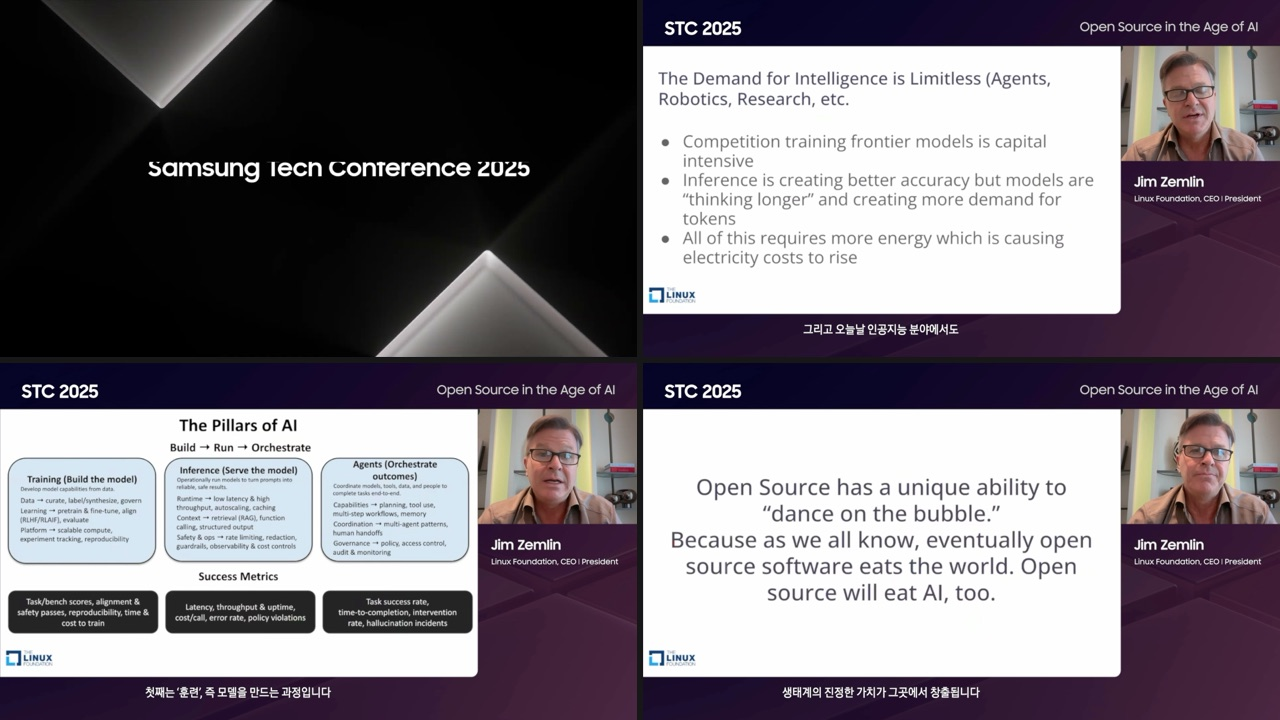
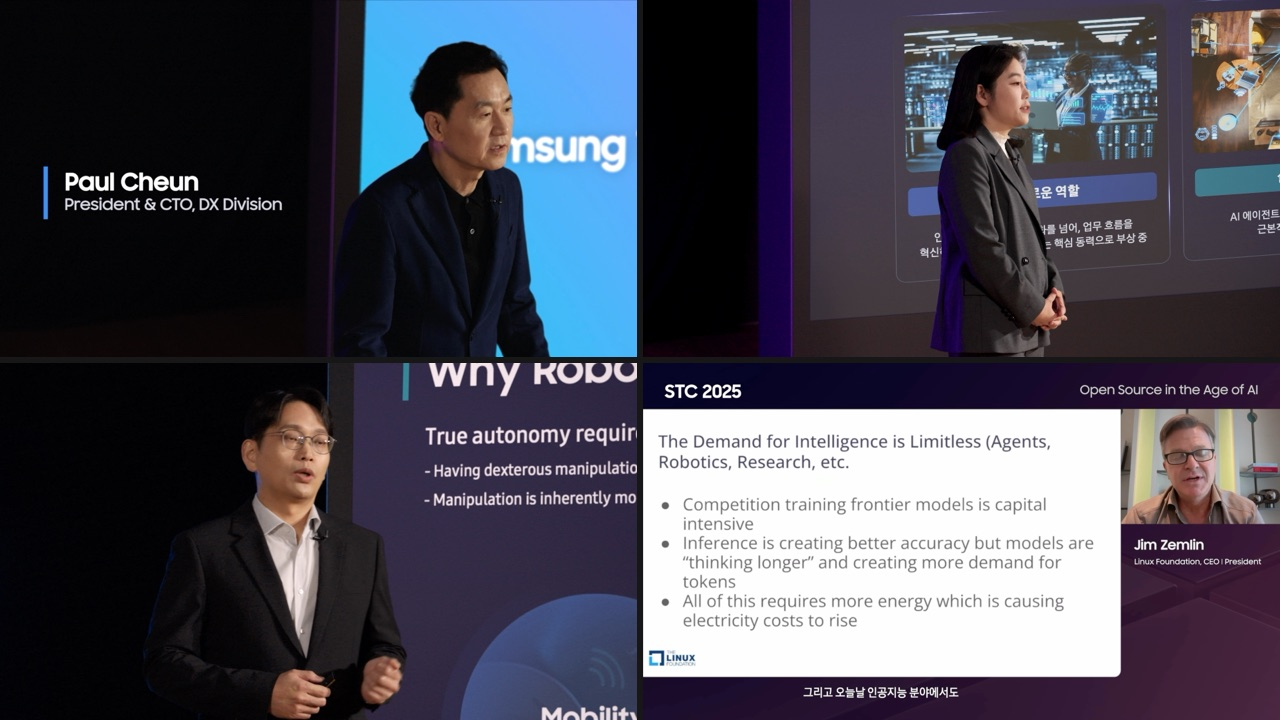
Use each keynote speaker once; add stills for KB Life and Jamboree opening
- Samsung Tech Conference 2025: the 2x2 still now shows four different
  speakers once each (Opening Speech, Keynote 1, Keynote 2, Keynote 5),
  as the owner asked. Frames were read from the Drive videos with
  AVFoundation over HTTP range requests, without downloading the files.
- KB Life Hashtag Interviews: 2x2 of episode thumbnails EP1, EP3, EP4 and
  EP7, each interviewee once.
- 16th Korea National Jamboree opening: 2x2 of frames from the AI opening
  film (downloaded, sampled, deleted).
- Every video card on Work now has a still. CMS schema v15 fills the two
  new stills only where the card image is still empty. Provenance is in
  .checks/video-sources.json.

diff --git a/work.html b/work.html
@@ -21,7 +21,7 @@
 <link rel="icon" href="/assets/img/favicon.svg?v=0.9.0" type="image/svg+xml">
 <link rel="stylesheet" as="style" crossorigin href="https://cdn.jsdelivr.net/gh/orioncactus/pretendard@v1.3.9/dist/web/static/pretendard.min.css">
 <link href="https://fonts.googleapis.com/css2?family=Material+Symbols+Outlined:opsz,wght,FILL,GRAD@24,300,0,0&amp;display=swap" rel="stylesheet">
-<link rel="stylesheet" href="/assets/site.css?v=0.16.0">
+<link rel="stylesheet" href="/assets/site.css?v=0.16.1">
 </head>
 <body data-page="work" class="portfolio">
 <a class="skip-link" href="#main-content">Skip to content</a>
@@ -74,8 +74,8 @@ and field photography.</h1>
 <article class="card project-card video-case"><div class="case-media"><img src="https://i.ytimg.com/vi/DJcwT3V79B0/hqdefault.jpg" alt="Video still: Daekyo Newif · Jangsuhae" loading="lazy" decoding="async" width="640" height="360"></div><div class="card-body"><div class="case-meta"><span class="eyebrow">Brand · TV commercial</span><span class="tag">2024</span></div><h3>Daekyo Newif · Jangsuhae</h3><p class="case-role">Direction, Production &amp; Editing Lead</p><p>TV commercial for Daekyo Newif’s Jangsuhae deep-sea water.</p><a class="card-link" href="https://www.youtube.com/watch?v=DJcwT3V79B0" target="_blank" rel="noopener noreferrer" aria-label="Watch film: Daekyo Newif · Jangsuhae">Watch film<span class="msym" aria-hidden="true">north_east</span></a></div></article>
 <article class="card project-card video-case"><div class="case-media"><img src="/assets/img/video/d-hack.jpg" alt="Video still: D-Hack × Sisa Japanese" loading="lazy" decoding="async" width="640" height="360"></div><div class="card-body"><div class="case-meta"><span class="eyebrow">Education · Web series</span><span class="tag">2021</span></div><h3>D-Hack × Sisa Japanese</h3><p class="case-role">Planning &amp; Direction</p><p>A Japanese-learning web entertainment series featuring D-Hack.</p><a class="card-link" href="https://drive.google.com/drive/folders/1oss4rQepxf1_Bi1ryEBJyThOrAzhZeIh" target="_blank" rel="noopener noreferrer" aria-label="View series: D-Hack × Sisa Japanese">View series<span class="msym" aria-hidden="true">north_east</span></a></div></article>
 <article class="card project-card video-case"><div class="case-media"><img src="/assets/img/video/siheung.jpg" alt="Video still: Siheung Policy EZ" loading="lazy" decoding="async" width="640" height="360"></div><div class="card-body"><div class="case-meta"><span class="eyebrow">Public communication · Video series</span><span class="tag">2021</span></div><h3>Siheung Policy EZ</h3><p class="case-role">Planning, Direction, Filming &amp; Editing</p><p>A policy information series using presenter footage, chroma key and motion graphics.</p><a class="card-link" href="https://drive.google.com/drive/folders/14K3KOWnmX50TZKDFmjr4isRzpRZs6SmO" target="_blank" rel="noopener noreferrer" aria-label="View series: Siheung Policy EZ">View series<span class="msym" aria-hidden="true">north_east</span></a></div></article>
-<article class="card project-card video-case"><div class="case-media"><span class="case-placeholder">KB Life · Hashtag Interviews</span></div><div class="card-body"><div class="case-meta"><span class="eyebrow">Brand · Interview series</span></div><h3>KB Life · Hashtag Interviews</h3><p class="case-role">Lead Filming &amp; Editing</p><p>A branded interview series sharing people’s stories and perspectives on life.</p><a class="card-link" href="https://www.youtube.com/playlist?list=PL7K0gdyN-9BQjyWAFqmtk9vfBv8qwmyuE" target="_blank" rel="noopener noreferrer" aria-label="View playlist: KB Life · Hashtag Interviews">View playlist<span class="msym" aria-hidden="true">north_east</span></a></div></article>
-<article class="card project-card video-case"><div class="case-media"><span class="case-placeholder">16th Korea National Jamboree · Opening Ceremony</span></div><div class="card-body"><div class="case-meta"><span class="eyebrow">Scouting · Opening film</span><span class="tag">2026</span></div><h3>16th Korea National Jamboree · Opening Ceremony</h3><p class="case-role">AI, Planning &amp; Editing</p><p>Opening-ceremony video work combining AI, planning and editing.</p><a class="card-link" href="https://drive.google.com/file/d/16a40q_FxOuc2uRkgvGlNhAWhrSeogo-W/view" target="_blank" rel="noopener noreferrer" aria-label="Watch film: 16th Korea National Jamboree · Opening Ceremony">Watch film<span class="msym" aria-hidden="true">north_east</span></a></div></article>
+<article class="card project-card video-case"><div class="case-media"><img src="/assets/img/video/kb-life.jpg" alt="Video still: KB Life · Hashtag Interviews" loading="lazy" decoding="async" width="640" height="360"></div><div class="card-body"><div class="case-meta"><span class="eyebrow">Brand · Interview series</span></div><h3>KB Life · Hashtag Interviews</h3><p class="case-role">Lead Filming &amp; Editing</p><p>A branded interview series sharing people’s stories and perspectives on life.</p><a class="card-link" href="https://www.youtube.com/playlist?list=PL7K0gdyN-9BQjyWAFqmtk9vfBv8qwmyuE" target="_blank" rel="noopener noreferrer" aria-label="View playlist: KB Life · Hashtag Interviews">View playlist<span class="msym" aria-hidden="true">north_east</span></a></div></article>
+<article class="card project-card video-case"><div class="case-media"><img src="/assets/img/video/korean-jamboree-opening.jpg" alt="Video still: 16th Korea National Jamboree · Opening Ceremony" loading="lazy" decoding="async" width="640" height="360"></div><div class="card-body"><div class="case-meta"><span class="eyebrow">Scouting · Opening film</span><span class="tag">2026</span></div><h3>16th Korea National Jamboree · Opening Ceremony</h3><p class="case-role">AI, Planning &amp; Editing</p><p>Opening-ceremony video work combining AI, planning and editing.</p><a class="card-link" href="https://drive.google.com/file/d/16a40q_FxOuc2uRkgvGlNhAWhrSeogo-W/view" target="_blank" rel="noopener noreferrer" aria-label="Watch film: 16th Korea National Jamboree · Opening Ceremony">Watch film<span class="msym" aria-hidden="true">north_east</span></a></div></article>
 <article class="card project-card video-case"><div class="case-media"><img src="/assets/img/video/concert.jpg" alt="Video still: 12th Infantry Division · 69th Anniversary Concert" loading="lazy" decoding="async" width="640" height="360"></div><div class="card-body"><div class="case-meta"><span class="eyebrow">Live event · Concert</span><span class="tag">2021</span></div><h3>12th Infantry Division · 69th Anniversary Concert</h3><p class="case-role">Video Direction, Filming &amp; Editing Lead</p><p>Military band concert film for the division’s 69th anniversary.</p><a class="card-link" href="https://youtu.be/36-q294zBtQ" target="_blank" rel="noopener noreferrer" aria-label="Watch film: 12th Infantry Division · 69th Anniversary Concert">Watch film<span class="msym" aria-hidden="true">north_east</span></a></div></article>
 <article class="card project-card video-case"><div class="case-media"><img src="https://i.ytimg.com/vi/HCb285yis9M/hqdefault.jpg" alt="Video still: Inha Model United Nations" loading="lazy" decoding="async" width="640" height="360"></div><div class="card-body"><div class="case-meta"><span class="eyebrow">University · Event film</span><span class="tag">2019</span></div><h3>Inha Model United Nations</h3><p class="case-role">Lead Filming &amp; Editing</p><p>Event sketch and closing film for the first Inha University Model UN.</p><a class="card-link" href="https://youtu.be/HCb285yis9M" target="_blank" rel="noopener noreferrer" aria-label="Watch film: Inha Model United Nations">Watch film<span class="msym" aria-hidden="true">north_east</span></a></div></article></div>
       <details class="format-details"><summary>Production formats<span class="msym" aria-hidden="true">expand_more</span></summary>
@@ -165,6 +165,6 @@ and field photography.</h1>
 </footer>
 
 <div class="copy-toast"><span class="msym" aria-hidden="true" style="font-size:17px;">check_circle</span>Copied</div>
-<script src="/assets/site.js?v=0.16.0" defer></script>
+<script src="/assets/site.js?v=0.16.1" defer></script>
 </body>
 </html>

diff --git a/functions/api/content.js b/functions/api/content.js
@@ -13,7 +13,7 @@ const HANGUL = /[가-힣]/;
 const link = (label, href) => ({ label, href });
 
 const DEFAULT = {
-  "version": 14,
+  "version": 15,
   "global": {
     "brand": {
       "name": "Jimmy Park",
@@ -487,7 +487,7 @@ const DEFAULT = {
               "role": "Lead Filming & Editing",
               "desc": "A branded interview series sharing people’s stories and perspectives on life.",
               "href": "https://www.youtube.com/playlist?list=PL7K0gdyN-9BQjyWAFqmtk9vfBv8qwmyuE",
-              "image": "",
+              "image": "/assets/img/video/kb-life.jpg",
               "format": "Brand · Interview series",
               "linkLabel": "View playlist"
             },
@@ -498,7 +498,7 @@ const DEFAULT = {
               "role": "AI, Planning & Editing",
               "desc": "Opening-ceremony video work combining AI, planning and editing.",
               "href": "https://drive.google.com/file/d/16a40q_FxOuc2uRkgvGlNhAWhrSeogo-W/view",
-              "image": "",
+              "image": "/assets/img/video/korean-jamboree-opening.jpg",
               "format": "Scouting · Opening film",
               "linkLabel": "Watch film"
             },
@@ -2602,6 +2602,21 @@ function migrateTo14(doc) {
   return doc;
 }
 
+// v15: the remaining video cards without a still (KB Life interviews, Korea Jamboree opening)
+// get owner-requested captures. Only cards whose image is still empty receive them.
+const V15_STILLS = {"kb-life": "/assets/img/video/kb-life.jpg", "korean-jamboree-opening": "/assets/img/video/korean-jamboree-opening.jpg"};
+function migrateTo15(doc) {
+  const pages = doc.pages || {};
+  const lists = [pages.work && pages.work.sections && pages.work.sections.video && pages.work.sections.video.cases,
+    pages.home && pages.home.sections && pages.home.sections.selected && pages.home.sections.selected.cases];
+  for (const rows of lists) {
+    if (!Array.isArray(rows)) continue;
+    for (const row of rows) if (row && V15_STILLS[row.id] && !String(row.image || '').trim()) row.image = V15_STILLS[row.id];
+  }
+  doc.version = 15;
+  return doc;
+}
+
 function normalizeOrders(doc) {
   for (const p of Object.keys(DEFAULT.pages)) {
     if (doc.pages && doc.pages[p]) doc.pages[p].order = mergeOrder(DEFAULT.pages[p].order, doc.pages[p].order);
@@ -2639,7 +2654,7 @@ function completeShape(def, value) {
 }
 function validDocument(value) {
   const object = x => !!x && typeof x === 'object' && !Array.isArray(x);
-  return object(value) && [2,3,4,5,6,7,8,9,10,11,12,13,14].includes(value.version) && object(value.global) && object(value.pages) &&
+  return object(value) && [2,3,4,5,6,7,8,9,10,11,12,13,14,15].includes(value.version) && object(value.global) && object(value.pages) &&
     ['home','work','scouting','contact'].every(page => object(value.pages[page]) && object(value.pages[page].sections));
 }
 async function storedContent(env) {
@@ -2648,7 +2663,7 @@ async function storedContent(env) {
   const parsed = JSON.parse(raw);
   if (!parsed || typeof parsed !== 'object' || Array.isArray(parsed)) throw new Error('invalid_stored_content');
   const legacy = !parsed.pages && !parsed.global && ['seo','contact','hero'].some(key => parsed[key] && typeof parsed[key] === 'object' && !Array.isArray(parsed[key]));
-  const shaped = [2,3,4,5,6,7,8,9,10,11,12,13,14].includes(parsed.version) && parsed.global && typeof parsed.global === 'object' && parsed.pages && typeof parsed.pages === 'object' && ['home','work','scouting','contact'].some(key => parsed.pages[key] && parsed.pages[key].sections);
+  const shaped = [2,3,4,5,6,7,8,9,10,11,12,13,14,15].includes(parsed.version) && parsed.global && typeof parsed.global === 'object' && parsed.pages && typeof parsed.pages === 'object' && ['home','work','scouting','contact'].some(key => parsed.pages[key] && parsed.pages[key].sections);
   if (!shaped && !legacy) throw new Error('invalid_stored_content');
   return parsed;
 }
@@ -2656,7 +2671,7 @@ export async function onRequestGet({ env }) {
   let doc;
   try { doc = await storedContent(env); } catch (_) { return json({ ok: false, error: 'storage_unavailable' }, 503); }
   if (!doc) return json({ ok: true, content: { ...DEFAULT, updatedAt: 0 } });
-  if (![2,3,4,5,6,7,8,9,10,11,12,13,14].includes(doc.version)) doc = fromV1(doc);
+  if (![2,3,4,5,6,7,8,9,10,11,12,13,14,15].includes(doc.version)) doc = fromV1(doc);
   if ((doc.version || 0) < 3) doc = migrateTo3(doc);
   if ((doc.version || 0) < 4) doc = migrateTo4(doc);
   if ((doc.version || 0) < 5) doc = migrateTo5(doc);
@@ -2669,6 +2684,7 @@ export async function onRequestGet({ env }) {
   if ((doc.version || 0) < 12) doc = migrateTo12(doc);
   if ((doc.version || 0) < 13) doc = migrateTo13(doc);
   if ((doc.version || 0) < 14) doc = migrateTo14(doc);
+  if ((doc.version || 0) < 15) doc = migrateTo15(doc);
   const clean = cleanUrls(normalizeOrders(sanitize(DEFAULT, doc)));
   clean.updatedAt = doc.updatedAt || 0;
   return json({ ok: true, content: clean });
@@ -2703,12 +2719,13 @@ export async function onRequestPut({ request, env }) {
   if (incoming.version < 12) migrateTo12(incoming);
   if (incoming.version < 13) migrateTo13(incoming);
   if (incoming.version < 14) migrateTo14(incoming);
+  if (incoming.version < 15) migrateTo15(incoming);
   const doc = normalizeOrders(sanitize(DEFAULT, incoming));
   const invalidUrls = [];
   cleanUrls(doc, invalidUrls);
   if (invalidUrls.length) return json({ ok: false, error: 'invalid_url', field: invalidUrls[0] }, 400);
   if (!/^[^\s@?&#]+@[^\s@?&#]+\.[^\s@?&#]+$/.test(doc.global.contact.email)) return json({ ok: false, error: 'invalid_email' }, 400);
-  doc.version = 14;
+  doc.version = 15;
   doc.updatedAt = Math.max(Date.now(), (previous && previous.updatedAt || 0) + 1);
   try { await env.JP_KV.put(KEY, JSON.stringify(doc)); } catch (_) { return json({ ok: false, error: 'storage_unavailable' }, 503); }
   return json({ ok: true, content: doc });

diff --git a/index.html b/index.html
@@ -21,7 +21,7 @@
 <link rel="icon" href="/assets/img/favicon.svg?v=0.9.0" type="image/svg+xml">
 <link rel="stylesheet" as="style" crossorigin href="https://cdn.jsdelivr.net/gh/orioncactus/pretendard@v1.3.9/dist/web/static/pretendard.min.css">
 <link href="https://fonts.googleapis.com/css2?family=Material+Symbols+Outlined:opsz,wght,FILL,GRAD@24,300,0,0&amp;display=swap" rel="stylesheet">
-<link rel="stylesheet" href="/assets/site.css?v=0.16.0">
+<link rel="stylesheet" href="/assets/site.css?v=0.16.1">
 <script type="application/ld+json">
 {
   "@context": "https://schema.org",
@@ -115,7 +115,7 @@ The right way to reach it.</h1>
       <a class="travel-link" href="/scouting#travel"><strong data-travel-count>19</strong><span>countries &amp; regions visited</span><span class="msym" aria-hidden="true">arrow_forward</span></a>
     </div>
     <figure class="split-img" style="margin:0;">
-      <div data-hero-image role="img" aria-label="Portrait of Jimmy Park" data-image-position="center 10%" style="position:relative; aspect-ratio:4/5; border-radius:var(--radius-panel); overflow:hidden; border:1px solid #e6e1da; background:#f7f6f3 url(&#x27;/assets/img/jimmy-park-portrait-960.jpg?v=0.16.0&#x27;) center 10%/cover;">
+      <div data-hero-image role="img" aria-label="Portrait of Jimmy Park" data-image-position="center 10%" style="position:relative; aspect-ratio:4/5; border-radius:var(--radius-panel); overflow:hidden; border:1px solid #e6e1da; background:#f7f6f3 url(&#x27;/assets/img/jimmy-park-portrait-960.jpg?v=0.16.1&#x27;) center 10%/cover;">
         <span data-bind="hero.badge" style="position:absolute; top:16px; left:16px; font-size:11px; font-weight:600; background:rgba(255,255,255,.88); color:#3a3631; padding:var(--space-4) var(--space-12); border-radius:var(--radius-pill);">Jimmy Park</span>
         <div style="position:absolute; inset:0; background:radial-gradient(130% 80% at 75% 15%, rgba(255,255,255,.35), transparent 60%);"></div>
       </div>
@@ -241,6 +241,6 @@ The right way to reach it.</h1>
 </footer>
 
 <div class="copy-toast"><span class="msym" aria-hidden="true" style="font-size:17px;">check_circle</span>Copied</div>
-<script src="/assets/site.js?v=0.16.0" defer></script>
+<script src="/assets/site.js?v=0.16.1" defer></script>
 </body>
 </html>

diff --git a/admin.html b/admin.html
@@ -8,7 +8,7 @@
 <link rel="icon" href="/assets/img/favicon.svg?v=0.9.0" type="image/svg+xml">
 <link rel="stylesheet" as="style" crossorigin href="https://cdn.jsdelivr.net/gh/orioncactus/pretendard@v1.3.9/dist/web/static/pretendard.min.css">
 <link href="https://fonts.googleapis.com/css2?family=Material+Symbols+Outlined:opsz,wght,FILL,GRAD@24,300,0,0&display=swap" rel="stylesheet">
-<link rel="stylesheet" href="/assets/site.css?v=0.16.0">
+<link rel="stylesheet" href="/assets/site.css?v=0.16.1">
 <style>
   /* Admin and the portfolio share the owner-selected Wanted Sans family. */
   body { background: #f7f6f3; font-family: 'Wanted Sans Variable', 'Pretendard', -apple-system, BlinkMacSystemFont, 'Segoe UI', system-ui, sans-serif; }
@@ -209,7 +209,7 @@
 </div>
 
 <input id="file-input" type="file" accept="image/*" multiple style="display:none;">
-<script src="/assets/insights-admin.js?v=0.16.0" defer></script>
-<script src="/assets/admin.js?v=0.16.0" defer></script>
+<script src="/assets/insights-admin.js?v=0.16.1" defer></script>
+<script src="/assets/admin.js?v=0.16.1" defer></script>
 </body>
 </html>

diff --git a/functions/_insights-shell.js b/functions/_insights-shell.js
@@ -6,7 +6,7 @@ export const INSIGHTS_SHELL = `<!DOCTYPE html>
 <meta name="twitter:card" content="summary_large_image"><meta name="twitter:image" content="https://jimmypark.net/assets/img/og.png"><meta name="twitter:title" content="__TITLE__"><meta name="twitter:description" content="__DESC__">__ROBOTS__
 <link rel="icon" href="/assets/img/favicon.svg?v=0.9.0" type="image/svg+xml">
 <link href="https://fonts.googleapis.com/css2?family=Material+Symbols+Outlined:opsz,wght,FILL,GRAD@24,300,0,0&amp;display=swap" rel="stylesheet">
-<link rel="stylesheet" href="/assets/site.css?v=0.16.0"></head>
+<link rel="stylesheet" href="/assets/site.css?v=0.16.1"></head>
 <body data-page="insights" class="portfolio"><a class="skip-link" href="#main-content">Skip to content</a>
 <header class="site-header">
   <div class="site-container header-inner">
@@ -52,4 +52,4 @@ export const INSIGHTS_SHELL = `<!DOCTYPE html>
     </div>
   </div>
 </footer>
-<script src="/assets/site.js?v=0.16.0" defer></script></body></html>`;
+<script src="/assets/site.js?v=0.16.1" defer></script></body></html>`;

diff --git a/insights.html b/insights.html
@@ -6,7 +6,7 @@
 <meta name="twitter:card" content="summary_large_image"><meta name="twitter:image" content="https://jimmypark.net/assets/img/og.png"><meta name="twitter:title" content="Insights | Jimmy Park"><meta name="twitter:description" content="Notes by Jimmy Park on content strategy, video production, applied AI and international Scouting.">
 <link rel="icon" href="/assets/img/favicon.svg?v=0.9.0" type="image/svg+xml">
 <link href="https://fonts.googleapis.com/css2?family=Material+Symbols+Outlined:opsz,wght,FILL,GRAD@24,300,0,0&amp;display=swap" rel="stylesheet">
-<link rel="stylesheet" href="/assets/site.css?v=0.16.0"></head>
+<link rel="stylesheet" href="/assets/site.css?v=0.16.1"></head>
 <body data-page="insights" class="portfolio"><a class="skip-link" href="#main-content">Skip to content</a>
 <header class="site-header">
   <div class="site-container header-inner">
@@ -52,4 +52,4 @@
     </div>
   </div>
 </footer>
-<script src="/assets/site.js?v=0.16.0" defer></script></body></html>
+<script src="/assets/site.js?v=0.16.1" defer></script></body></html>

diff --git a/404.html b/404.html
@@ -5,7 +5,7 @@
 <meta name="twitter:card" content="summary"><meta name="twitter:title" content="Page not found | Jimmy Park"><meta name="twitter:description" content="This page could not be found. Explore Jimmy Park’s work or return to the homepage.">
 <link rel="icon" href="/assets/img/favicon.svg?v=0.9.0" type="image/svg+xml">
 <link href="https://fonts.googleapis.com/css2?family=Material+Symbols+Outlined:opsz,wght,FILL,GRAD@24,300,0,0&amp;display=swap" rel="stylesheet">
-<link rel="stylesheet" href="/assets/site.css?v=0.16.0"></head>
+<link rel="stylesheet" href="/assets/site.css?v=0.16.1"></head>
 <body data-page="not-found" class="portfolio"><a class="skip-link" href="#main-content">Skip to content</a>
 <header class="site-header">
   <div class="site-container header-inner">
@@ -51,4 +51,4 @@
     </div>
   </div>
 </footer>
-<script src="/assets/site.js?v=0.16.0" defer></script></body></html>
+<script src="/assets/site.js?v=0.16.1" defer></script></body></html>

diff --git a/scouting.html b/scouting.html
@@ -21,7 +21,7 @@
 <link rel="icon" href="/assets/img/favicon.svg?v=0.9.0" type="image/svg+xml">
 <link rel="stylesheet" as="style" crossorigin href="https://cdn.jsdelivr.net/gh/orioncactus/pretendard@v1.3.9/dist/web/static/pretendard.min.css">
 <link href="https://fonts.googleapis.com/css2?family=Material+Symbols+Outlined:opsz,wght,FILL,GRAD@24,300,0,0&amp;display=swap" rel="stylesheet">
-<link rel="stylesheet" href="/assets/site.css?v=0.16.0">
+<link rel="stylesheet" href="/assets/site.css?v=0.16.1">
 </head>
 <body data-page="scouting" class="portfolio">
 <a class="skip-link" href="#main-content">Skip to content</a>
@@ -226,6 +226,6 @@ international collaboration.</h1>
 </dialog>
 
 <div class="copy-toast"><span class="msym" aria-hidden="true" style="font-size:17px;">check_circle</span>Copied</div>
-<script src="/assets/site.js?v=0.16.0" defer></script>
+<script src="/assets/site.js?v=0.16.1" defer></script>
 </body>
 </html>

diff --git a/dev.html b/dev.html
@@ -21,7 +21,7 @@
 <link rel="icon" href="/assets/img/favicon.svg?v=0.9.0" type="image/svg+xml">
 <link rel="stylesheet" as="style" crossorigin href="https://cdn.jsdelivr.net/gh/orioncactus/pretendard@v1.3.9/dist/web/static/pretendard.min.css">
 <link href="https://fonts.googleapis.com/css2?family=Material+Symbols+Outlined:opsz,wght,FILL,GRAD@24,300,0,0&amp;display=swap" rel="stylesheet">
-<link rel="stylesheet" href="/assets/site.css?v=0.16.0">
+<link rel="stylesheet" href="/assets/site.css?v=0.16.1">
 </head>
 <body data-page="dev" class="portfolio">
 <a class="skip-link" href="#main-content">Skip to content</a>
@@ -137,6 +137,6 @@ Build it with AI.</h1>
 </footer>
 
 <div class="copy-toast"><span class="msym" aria-hidden="true" style="font-size:17px;">check_circle</span>Copied</div>
-<script src="/assets/site.js?v=0.16.0" defer></script>
+<script src="/assets/site.js?v=0.16.1" defer></script>
 </body>
 </html>

diff --git a/contact.html b/contact.html
@@ -21,7 +21,7 @@
 <link rel="icon" href="/assets/img/favicon.svg?v=0.9.0" type="image/svg+xml">
 <link rel="stylesheet" as="style" crossorigin href="https://cdn.jsdelivr.net/gh/orioncactus/pretendard@v1.3.9/dist/web/static/pretendard.min.css">
 <link href="https://fonts.googleapis.com/css2?family=Material+Symbols+Outlined:opsz,wght,FILL,GRAD@24,300,0,0&amp;display=swap" rel="stylesheet">
-<link rel="stylesheet" href="/assets/site.css?v=0.16.0">
+<link rel="stylesheet" href="/assets/site.css?v=0.16.1">
 </head>
 <body data-page="contact" class="portfolio">
 <a class="skip-link" href="#main-content">Skip to content</a>
@@ -143,6 +143,6 @@ Timeline:
 </footer>
 
 <div class="copy-toast"><span class="msym" aria-hidden="true" style="font-size:17px;">check_circle</span>Copied</div>
-<script src="/assets/site.js?v=0.16.0" defer></script>
+<script src="/assets/site.js?v=0.16.1" defer></script>
 </body>
 </html>
